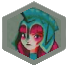
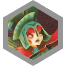
Ajout de l'historique + Nouvelles Images Jetons

diff --git a/src/Modele/Plateau.java b/src/Modele/Plateau.java
@@ -2,8 +2,9 @@ package Modele;
 
 import Global.Configuration;
 import Global.Element;
+import Structures.Sequence;
 
-public class Plateau extends Historique<Coup> implements Cloneable {
+public class Plateau extends Historique<PlateauHistorique> implements Cloneable {
 
     // ===============================
     // ===== INFORMATION PLATEAU =====
@@ -243,10 +244,15 @@ public class Plateau extends Historique<Coup> implements Cloneable {
     // ================================
     // ========== HISTORIQUE ==========
     // ================================
-    public void jouerCoupPlateau(Plateau p) {
-        
-        Plateau plateau = p;
-        changerJoueurCourant();
+    PlateauHistorique determinerPlateauHistorique(Plateau plateau) {
+        PlateauHistorique plateauHistorique = new PlateauHistorique();
+        plateauHistorique.ajouterEtatPlateau(plateau);
+        return plateauHistorique;
+    }
+
+    public void sauvegarderPlateauHistorique(PlateauHistorique pHistorique) {
+        pHistorique.fixerPlateau(this);
+        nouveau(pHistorique);
     }
 
     public void dejouerCoupGaufre(int positionX, int positionY) {
@@ -279,14 +285,13 @@ public class Plateau extends Historique<Coup> implements Cloneable {
         */
     }
 
-    public int tailleHistoire() {
+    public int tailleHistorique() {
         
-        int res = 0;
-        /*
-        Sequence<Plateau> sequencePlateau = Configuration.instance().nouvelleSequence();
+        int tailleHistorique = 0;
+        Sequence<PlateauHistorique> sequencePlateau = Configuration.instance().nouvelleSequence();
         while(!passe.estVide()) {
             sequencePlateau.insereQueue(passe.extraitTete());
-            res++;
+            tailleHistorique ++;
         }
         while(!sequencePlateau.estVide()) {
             passe.insereQueue(sequencePlateau.extraitTete());
@@ -295,14 +300,12 @@ public class Plateau extends Historique<Coup> implements Cloneable {
         sequencePlateau = Configuration.instance().nouvelleSequence();
         while(!futur.estVide()) {
             sequencePlateau.insereQueue(futur.extraitTete());
-            res++;
+            tailleHistorique ++;
         } 
         while(!sequencePlateau.estVide()) {
             futur.insereQueue(sequencePlateau.extraitTete());
         }
-        */
-        return res;
-        
+        return tailleHistorique;
     }
 
     // =====================

diff --git a/src/Controleur/ControleurMediateur.java b/src/Controleur/ControleurMediateur.java
@@ -23,6 +23,8 @@ import Joueur.JoueurIARandom;
 import Joueur.JoueurIAnastasia;
 import Joueur.JoueurIAnastasiaJoueBeaucoup;
 import Modele.Jeu;
+import Modele.Plateau;
+import Modele.PlateauHistorique;
 import Vue.CollecteurEvenements;
 import Vue.InterfaceUtilisateur;
 
@@ -105,7 +107,7 @@ public class ControleurMediateur implements CollecteurEvenements {
             joueurs[i][JOUEUR_ANASTASIA_DEUX] = new JoueurIAnastasiaJoueBeaucoup(i, jeu);
         }
 
-        changerJoueurCourant(JOUEUR_GAUCHE, JOUEUR_HUMAIN);
+        changerJoueurCourant(JOUEUR_GAUCHE, JOUEUR_IAEXPERTE);
         changerJoueurCourant(JOUEUR_DROIT, JOUEUR_HUMAIN);
         
         joueurCourant = jeu.joueurCourant();
@@ -282,7 +284,16 @@ public class ControleurMediateur implements CollecteurEvenements {
 
     // TODO NETTOYAGE VVVVVVVV
 
-    
+    void plateauHistorique(Plateau p) {
+        PlateauHistorique plateauHistorique = jeu.determinerPlateauHistorique(p);
+        if (plateauHistorique != null) {
+            sauvegarderPlateauHistorique(plateauHistorique);
+        }
+    }
+
+    void sauvegarderPlateauHistorique(PlateauHistorique pHistorique) {
+        jeu.sauvegarderPlateauHistorique(pHistorique);
+    }
 
     void annule() {
         /*
@@ -449,6 +460,10 @@ public class ControleurMediateur implements CollecteurEvenements {
         if (jeu.dernierTypeDePersonnageJouer != Element.VIDE || jeu.teleportationFaite == true) {
             jeu.finDeTour();
             jeu.changerEtatJeu(InfoJeu.DEBUT_TOUR);
+            
+            plateauHistorique(jeu.plateau());
+            System.out.println("Taille de l'historique : " + jeu.tailleHistoirique());
+
             ETAT_JEU = InfoJeu.DEBUT_TOUR;
             changerJoueurCourant();
             interfaceUtilisateur.miseAJourFinDeTour();

diff --git a/src/Modele/Jeu.java b/src/Modele/Jeu.java
@@ -1056,6 +1056,19 @@ public class Jeu extends Observable {
     // ======================
     // ===== HISTORIQUE =====
     // ======================
+    public PlateauHistorique determinerPlateauHistorique(Plateau p) {
+        return plateau.determinerPlateauHistorique(p);
+    }
+
+    public void sauvegarderPlateauHistorique(PlateauHistorique pHistorique) {
+        if (pHistorique == null) {
+            Configuration.instance().logger().warning("Plateau Historique Null !!");
+        } else {
+            plateau.sauvegarderPlateauHistorique(pHistorique);
+            metAJour();
+        }
+    }
+
     public Plateau annule() {
         if (estPartieTerminee()) {
             plateau().joueurGagnant = AUCUN_GAGNANT;
@@ -1076,7 +1089,8 @@ public class Jeu extends Observable {
     }
 
     public int tailleHistoirique() {
-        return plateau().tailleHistoire();
+        return plateau().tailleHistorique();
+        // TODO ADRIEN !!!!
     }
 
     // ======================

diff --git a/src/Modele/PlateauHistorique.java b/src/Modele/PlateauHistorique.java
@@ -5,12 +5,12 @@ import Structures.Iterateur;
 import Structures.Sequence;
 import Global.Configuration;
 
-public class Coup extends Commande {
+public class PlateauHistorique extends Commande {
 
     Sequence<Plateau> sequenceEtatPlateau;
     Plateau plateau;
 
-    Coup() {
+    public PlateauHistorique() {
         sequenceEtatPlateau = Configuration.instance().nouvelleSequence();
     }
 
